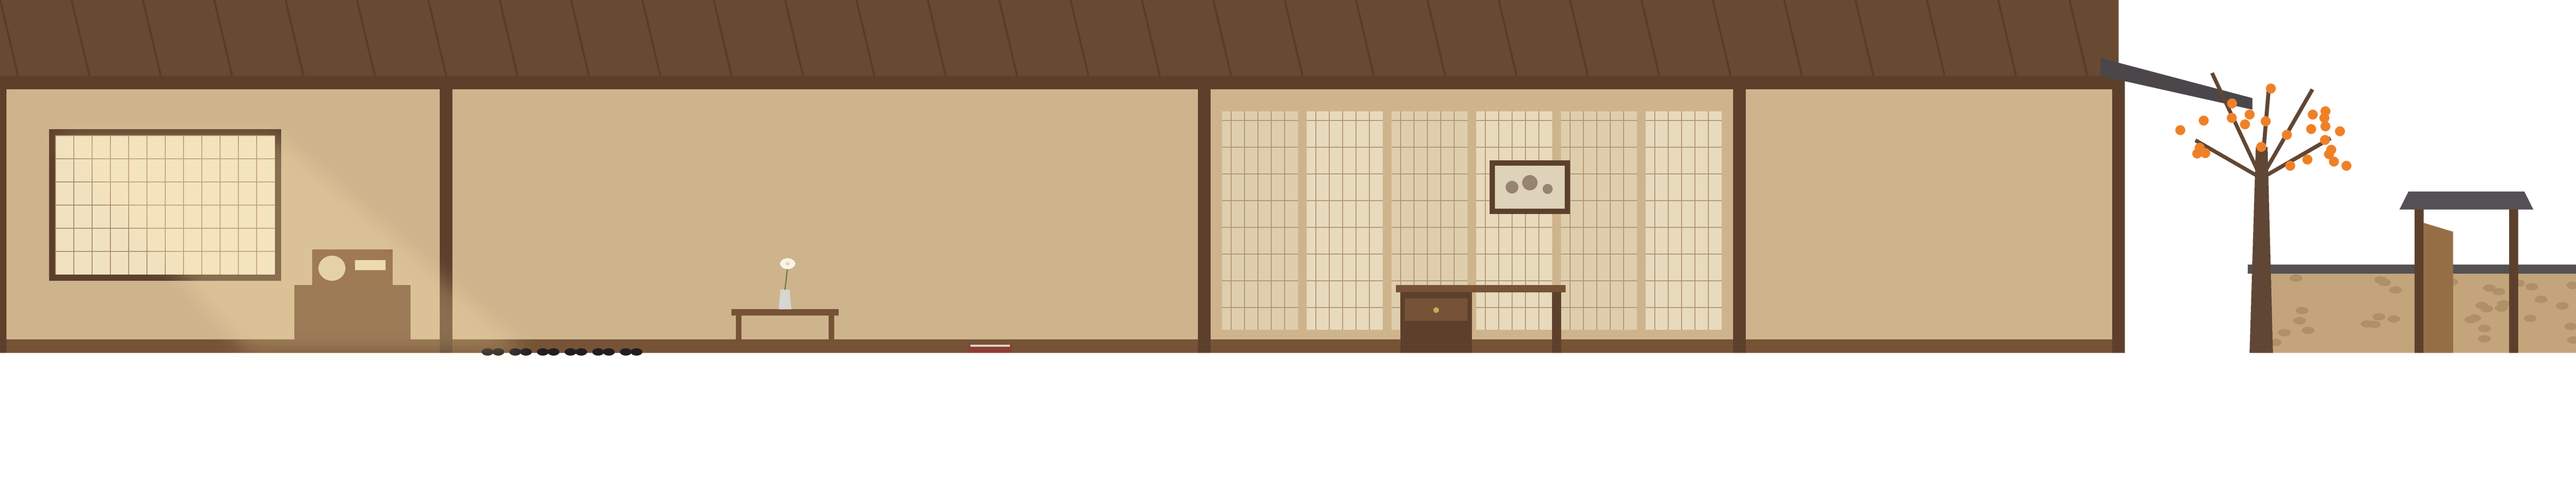
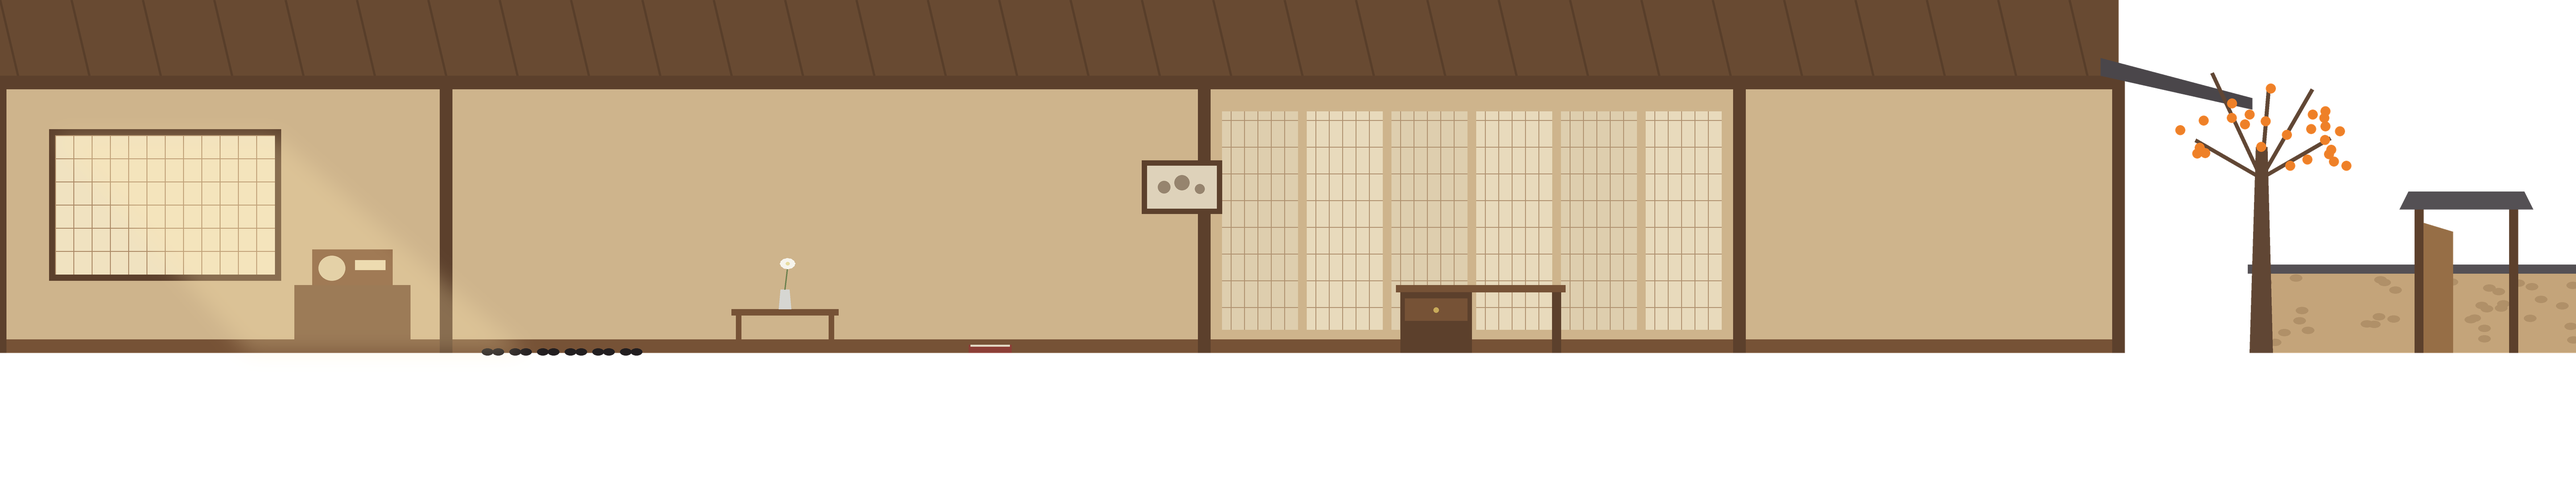
1-4 열쇠를 마루 벽 액자로 + 5-3 징검다리 촉각 연출 (#121)
A 대신 B 세션이 작업.

- 1-4: 가족사진 액자(열쇠)를 서랍 옆(210px)에서 지나온 마루 벽(x 2650)으로 옮겼다.
  잠긴 서랍을 한 번 열어 보면(덜컹) house_drawer_tried가 서고, 그제야 액자를 살펴볼 수 있다.
  조사 대상 locked_grants_flag 추가. 임시 배경 액자 자리 HOUSE_FRAME_X.
- 5-3: SteppingStones — 돌을 배경 대신 게임이 그린다. 첫 돌은 하늘이가 버티기 전까지 흔들리고
  버티면 가라앉아 멈춘다(발밑 잔물결). 밟는 돌은 가라앉았다 올라오고 물결·찰랑 소리.
- 스모크: 같은 장소 안에서 막는 벽 없이 되돌아가 찾는 requires는 허용, 액자 자리·징검다리 첫 돌 자리 검사.
- 게임플레이: locked_grants_flag, 징검다리(흔들림·멈춤·가라앉음·물결).

Claude-Session: https://claude.ai/code/session_01J4uuBjb9dFExxEE8Rhw3pJ

Changed region(s): [[0.5609, 0.3361, 0.6233, 0.4583], [0.4363, 0.3361, 0.4986, 0.4583]]

diff --git a/tools/placeholder_art.py b/tools/placeholder_art.py
@@ -204,6 +204,8 @@ def lerp_color(a: Color, b: Color, t: float) -> Color:
 # 해 기우는 오후. 은빛·금빛 억새, 옅은 하늘색. 해는 오른쪽 낮게, 그림자는 왼쪽으로 길다.
 
 # 2-3 지도가 걸리는 억새 덤불(땅 x). field.tscn MapChase_2-3의 position.x + stops와 같아야 한다(스모크 검사가 본다).
+# 1-4 가족사진 액자(열쇠)가 걸린 마루 벽의 땅 x. house.tscn Look_1-4_Frame의 position.x와 같아야 한다(스모크 검사).
+HOUSE_FRAME_X = 2650
 FIELD_SNAGS = [5000, 5900, 6800]
 
 
@@ -592,9 +594,11 @@ def house(width: float, markers: dict[str, float]) -> dict[str, Layer]:
     L.rect(x - 170, 670, x - 30, 720, wood)
     L.ellipse((x - 106, 690, x - 94, 702), rgba(200, 170, 90))
     L.rect(x + 160, 656, x + 180, 792, dark)
-    L.rect(x + 20, 360, x + 200, 480, dark)
-    L.rect(x + 32, 372, x + 188, 468, rgba(222, 210, 186))
-    for hx, hy, r in ((x + 70, 420, 14), (x + 110, 410, 17), (x + 150, 424, 11)):
+    # 가족사진 액자: 서랍에서 떨어진 마루 벽(#121 — 서랍이 잠긴 걸 보고 둘러보다 찾게). house.tscn Look_1-4_Frame과 같은 x.
+    fx = HOUSE_FRAME_X - 90
+    L.rect(fx, 360, fx + 180, 480, dark)
+    L.rect(fx + 12, 372, fx + 168, 468, rgba(222, 210, 186))
+    for hx, hy, r in ((fx + 50, 420, 14), (fx + 90, 410, 17), (fx + 130, 424, 11)):
         L.ellipse((hx - r, hy - r, hx + r, hy + r), rgba(150, 132, 110))
     # 집 끝: 처마
     L.poly([(yard_x - 40, 130), (yard_x + 300, 220), (yard_x + 300, 246), (yard_x - 40, 170)], rgba(74, 70, 74))
@@ -909,9 +913,7 @@ def riverside(width: float, markers: dict[str, float]) -> dict[str, Layer]:
     x = mk("5-3", 3990)  # 5-3 징검다리
     L.rect(x - 480, 788, x + 480, 866, water)
     water_streaks(L, rng, x - 460, x + 460, 796, 860, 40, rgba(206, 214, 230, 160))
-    for sx in range(int(x - 420), int(x + 440), 140):
-        L.ellipse((sx - 56, 792, sx + 56, 822), rgba(110, 108, 116))
-        L.ellipse((sx - 50, 790, sx + 50, 810), rgba(146, 144, 150))
+    # 돌은 게임(SteppingStones_5-3)이 그린다 — 밟으면 가라앉고 첫 돌은 흔들린다(#121)
 
     w = layer_width(width, "props")
     layers["props"] = L = Layer(w)

diff --git a/docs/story.md b/docs/story.md
@@ -43,7 +43,7 @@
 | 1-1 | 깨어남 | 하윤이 마루에서 몸을 일으킨다. 카메라가 천천히 방을 훑는다 | 소매 끝 흰 팔찌. 라디오에서 휘파람 선율이 희미하게, 처마 풍경 소리 | — | 방·마루 배경, 라디오 | 0:15 |
 | 1-2 | 빈집 | 거실과 현관을 지난다. 아무도 없다 | 현관에 검은 구두가 줄지어 있다. 식탁에 흰 국화 한 송이. 거실 벽에 영정사진 두 개: 할아버지, 그리고 흐려서 보이지 않는 사진(하윤). 모두 조사할 수 없는 배경으로만 둔다 | — | 검은 구두 줄, 식탁과 국화, 영정사진 2장 | 0:20 |
 | 1-3 | 앨범 (선택) | 마루의 사진 앨범을 넘긴다. 세 쪽 | 1쪽 아기 하윤을 안은 할아버지. 2쪽 할아버지와 흰 개(화면 쪽 귀 끝 갈색). 3쪽 비어 있다 | 대사 1. 하윤: "…할아버지." | 앨범 펼친 그림 3장 | 0:20 |
-| 1-4 | 잠긴 서랍 | 할아버지 책상 서랍이 잠겨 있다. 벽의 가족사진 액자 뒤에서 작은 열쇠를 찾는다 | 퍼즐 1 | — | 책상, 가족사진 액자, 작은 열쇠 | 0:30 |
+| 1-4 | 잠긴 서랍 | 할아버지 책상 서랍이 잠겨 있다. 지나온 마루 벽의 가족사진 액자 뒤에서 작은 열쇠를 찾는다(서랍이 잠긴 걸 본 뒤에야 액자를 살펴볼 수 있다, #121) | 퍼즐 1 | — | 책상, 가족사진 액자, 작은 열쇠 | 0:30 |
 | 1-5 | 지도 | 서랍에서 접힌 지도를 꺼내 처음 펼친다(M 안내). 동그라미 다섯 개 | 다섯째 동그라미만 다른 글씨지만 강조하지 않는다 | 글: "하윤이랑 같이 갈 데" / 대사 2. 하윤: "…같이 가자며." | 접힌 지도, 펼친 지도 | 0:20 |
 | 1-6 | 마당 | 마당으로 나간다. 마당 한쪽에 할아버지 손전등이 놓여 있다(줍기, 여기서는 안 쓴다). 감나무를 흔들면 감 하나가 떨어진다(선택). 대문을 나선다 | 처음으로 손목 만지기 대기 동작이 보이는 자리 | — | 마당 배경, 감나무, 대문, 손전등 | 0:15 |
 
@@ -96,7 +96,7 @@
 | --- | --- | --- | --- | --- | --- | --- |
 | 5-1 | 강가 | 물안개와 갈대 사이 조약돌 길 | 강물 소리. **여기부터 하늘이 발소리가 없다** | — | 하늘·강 건너 산, 갈대 조각 2종, 조약돌 길 | 0:20 |
 | 5-2 | 물그림자 | 얕은 물가를 걷는다. 카메라가 살짝 내려가 물을 보여 준다 | 물에 비친 하윤은 흐리고, 하늘이는 비치지 않는다 | — | 물 반사(코드) | 0:20 |
-| 5-3 | 징검다리 | 흔들리는 징검다리. 하늘이에게 부탁(기다려)하면 한쪽 돌을 버틴다. 하윤이 건너고 하늘이가 뛰어 따라온다 | — | — | 징검다리 돌 | 0:40 |
+| 5-3 | 징검다리 | 흔들리는 징검다리. 첫 돌이 기우뚱 흔들린다. 하늘이에게 부탁(기다려)하면 그 돌을 버텨 멈춘다. 하윤이 건너는 동안 밟는 돌마다 살짝 가라앉았다 올라오며 물결이 퍼진다(#121). 하늘이가 뛰어 따라온다 | 돌을 밟을 때 찰랑 소리 | — | 징검다리 돌 | 0:40 |
 | 5-4 | 여울 | 여울 앞 바위 틈에서 **할아버지 돌 주머니**(물건)를 줍는다. 동그라미 4에 체크한다. 물 위에 할아버지 물결 다섯 자리가 남고, 주머니의 납작한 돌로 물수제비를 뜬다(미니게임, **선택** — ← →로 그만둔다). 다섯 번을 튀기면 하늘이가 짖고 기억이 한 번 더 빛난다 | 기억 장면 4: 할아버지의 돌이 다섯 번 튄다. 휘파람 한 소절 | 글: "물수제비. 할아버지 다섯 번, 하윤이는?" / 대사 8. 하윤: "…다섯 번은 어렵다."(다섯 번을 못 튀겼을 때만) | 납작한 돌, 돌 주머니(SVG), 기억 장면 4 | 0:30~1:00 |
 
 ## 6. 낡은 철교 (11:00~12:20)
